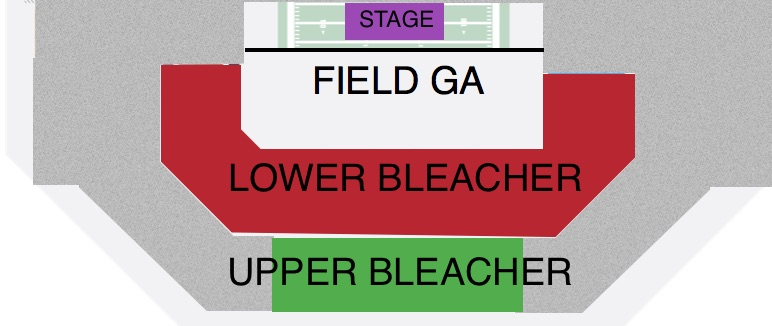
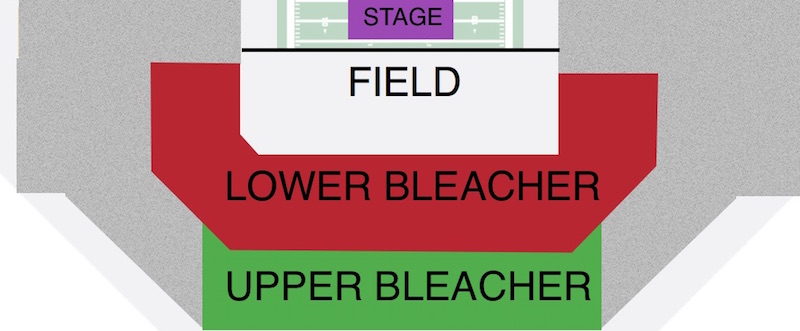
BROODS

Changed region(s): [[0.0, 0.0, 0.8705, 1.0], [0.8705, 0.5521, 1.0, 0.7055], [0.8083, 0.3988, 0.8394, 0.5215]]

diff --git a/assets/css/main.css b/assets/css/main.css
@@ -93,14 +93,20 @@ h3 {
 }
 
 .headliner h3 {
-    margin: 0;
+    margin: 10px 0;
 }
 
 .headliner h1 {
     text-indent: -99999px;
     background: url(/assets/img/zedd.png) center center no-repeat;
     background-size: contain;
-    height: 200px;
+    margin: 0;
+}
+
+.headliner h2 {
+    text-indent: -99999px;
+    background: url(/assets/img/broods.jpg) center center no-repeat;
+    background-size: contain;
     margin: 0;
 }
 
@@ -155,17 +161,20 @@ h3 {
 }
 
 @media (max-width: 320px) {
-    .splash {min-height: 350px;}
+    .splash {min-height: 450px;}
 
     .title h1 .mid {font-size: 70px;}
     .title h1 .top,
     .title h1 .bot {font-size: 14px;}
 
     .headliner h1 {height: 80px;}
+    .headliner h2 {height: 20px;}
 
     .presents,
     .date h3,
     .headliner h3 {font-size: 13px;}
+
+    .navbar {height: 50px;}
 
     .navbar .navbar-nav li {margin: 0 0;}
     .navbar .navbar-nav li a {font-size: 12px; padding: 0 1px;}
@@ -177,17 +186,20 @@ h3 {
 
 
 @media (min-width: 321px) {
-    .splash {min-height: 400px;}
+    .splash {min-height: 500px;}
 
     .title h1 .mid {font-size: 90px;}
     .title h1 .top,
     .title h1 .bot {font-size: 20px;}
 
     .headliner h1 {height: 100px;}
+    .headliner h2 {height: 30px;}
 
     .presents,
     .date h3,
     .headliner h3 {font-size: 15px;}
+
+    .navbar {height: 60px;}
 
     .navbar .navbar-nav li {margin: 0 0;}
     .navbar .navbar-nav li a {font-size: 15px; padding: 0 2px;}
@@ -198,17 +210,20 @@ h3 {
 }
 
 @media (min-width: 520px) and (min-height: 400px) {
-    .splash {min-height: 600px;}
+    .splash {min-height: 700px;}
 
     .title h1 .mid {font-size: 120px;}
     .title h1 .top,
     .title h1 .bot {font-size: 20px;}
 
     .headliner h1 {height: 100px;}
+    .headliner h2 {height: 30px;}
 
     .presents,
     .date h3,
     .headliner h3 {font-size: 15px;}
+
+    .navbar {height: 70px;}
 
     .navbar .navbar-nav li {margin: 0 0;}
     .navbar .navbar-nav li a {font-size: 17px; padding: 0 5px;}
@@ -219,17 +234,20 @@ h3 {
 }
 
 @media (min-width: 768px) and (min-height: 600px) {
-    .splash {min-height: 675px;}
+    .splash {min-height: 775px;}
 
     .title h1 .mid {font-size: 150px;}
     .title h1 .top,
     .title h1 .bot {font-size: 30px;}
 
-    .headliner h1 {height: 130px;}
+    .headliner h1 {height: 120px;}
+    .headliner h2 {height: 40px;}
 
     .presents,
     .date h3,
     .headliner h3 {font-size: 20px;}
+
+    .navbar {height: 80px;}
 
     .navbar .navbar-nav li {margin: 0 0;}
     .navbar .navbar-nav li a {font-size: 25px;}
@@ -240,17 +258,20 @@ h3 {
 }
 
 @media (min-width: 992px) and (min-height: 650px) {
-    .splash {min-height: 750px;}
+    .splash {min-height: 850px;}
 
     .title h1 .mid {font-size: 180px;}
     .title h1 .top,
     .title h1 .bot {font-size: 40px;}
 
-    .headliner h1 {height: 160px;}
+    .headliner h1 {height: 130px;}
+    .headliner h2 {height: 50px;}
 
     .presents,
     .date h3,
     .headliner h3 {font-size: 20px;}
+
+    .navbar {height: 90px;}
 
     .navbar .navbar-nav li {margin: 0 20px;}
     .navbar .navbar-nav li a {font-size: 30px;}
@@ -261,17 +282,20 @@ h3 {
 }
 
 @media (min-width: 1200px) and (min-height: 750px) {
-    .splash {min-height: 850px;}
+    .splash {min-height: 950px;}
 
     .title h1 .mid {font-size: 210px;}
     .title h1 .top,
     .title h1 .bot {font-size: 50px;}
 
-    .headliner h1 {height: 200px;}
+    .headliner h1 {height: 150px;}
+    .headliner h2 {height: 60px;}
 
     .presents,
     .date h3,
     .headliner h3 {font-size: 25px;}
+
+    .navbar {height: 100px;}
 
     .navbar .navbar-nav li {margin: 0 30px;}
     .navbar .navbar-nav li a {font-size: 35px;}

diff --git a/tickets.html b/tickets.html
@@ -56,7 +56,7 @@ layout: default
     <div class="row">
         <div class="col-md-10">
             <h3>Ticket Levels</h3>
-            <p>Three ticket levels are available for purchase: Field GA, Lower Bleacher, and Upper Bleacher. See below for a map of the ticket areas.</p>
+            <p>Three ticket levels are available for purchase: Field, Lower Bleacher, and Upper Bleacher. See below for a map of the ticket areas.</p>
             <img class="ticket" src="/assets/img/ticket-map.jpg">
         </div>
     </div>

diff --git a/index.html b/index.html
@@ -39,7 +39,8 @@ layout: default
             <div class="col-md-9">
                 <h3>With</h3>
                 <h1>ZEDD</h1>
-                <h3>And Special Guests</h3>
+                <h3>and</h3>
+                <h2>BROODS</h2>
             </div>
         </div>
     </div>
